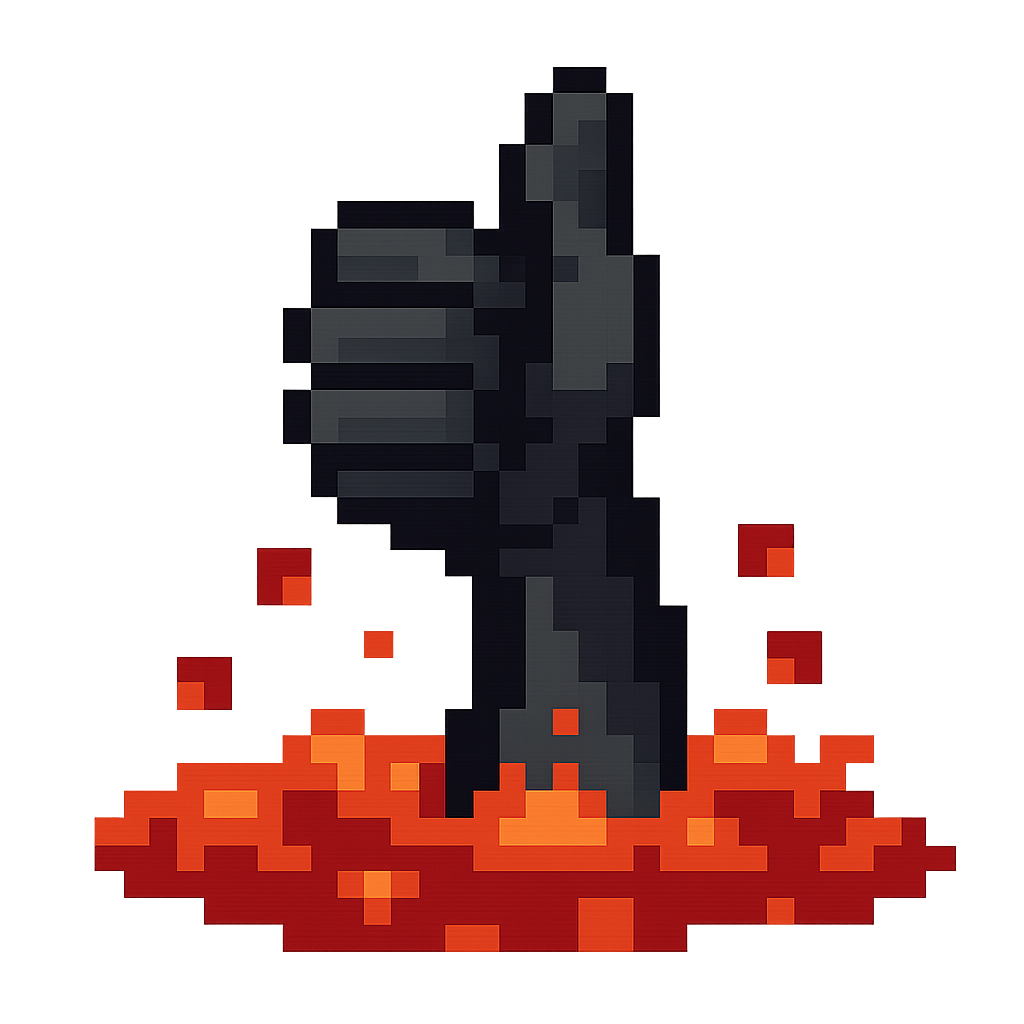
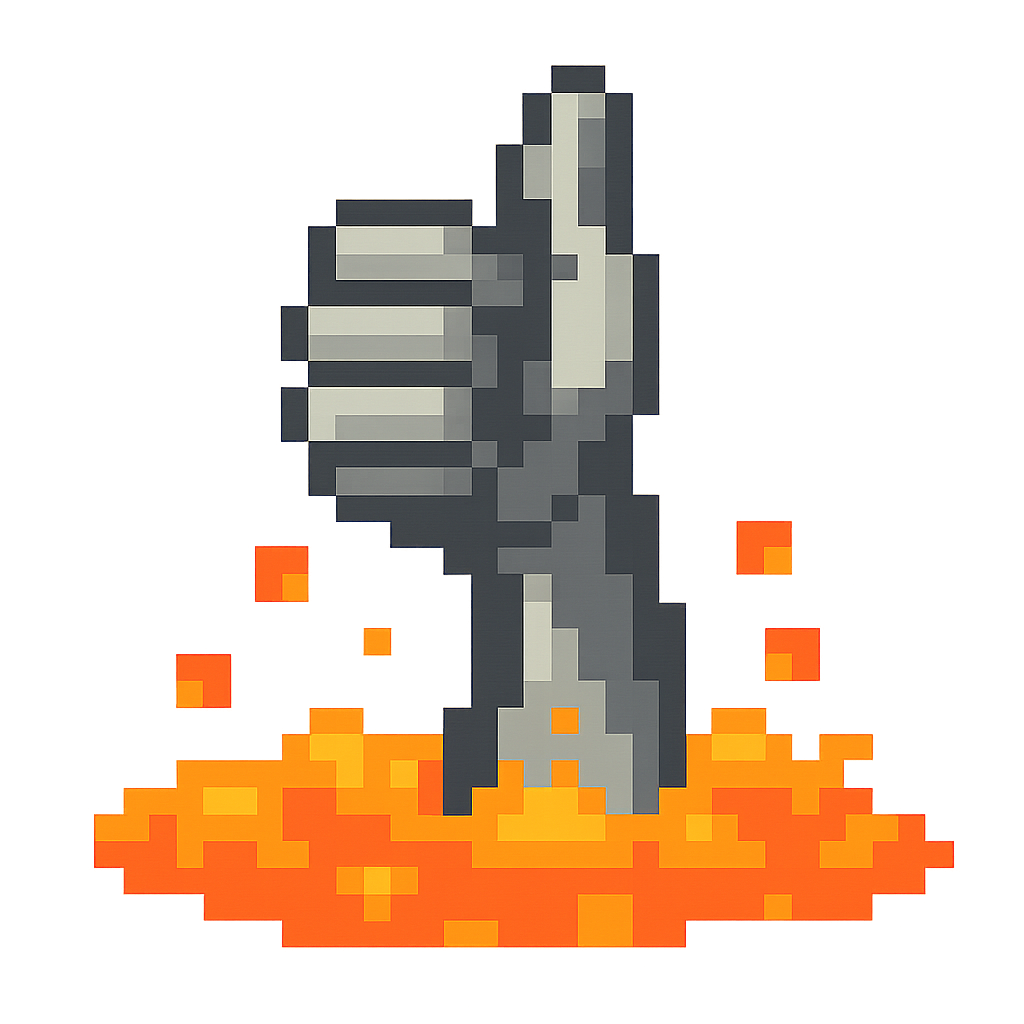
Add background images and update GameScene logic
Added four new background images to src/sprites/fondo and updated GameScene.js to load and display the background image, ensuring it follows the camera. Also made minor adjustments to lava point colors and improved comments for clarity.

diff --git a/src/scenes/GameScene.js b/src/scenes/GameScene.js
@@ -8,6 +8,7 @@ import { playLavaDeath } from '../effects/playLavaDeath'
 import UserInfo from '../user/UserInfo'
 import bgmUrl from '../audio/BackGroungSound.mp3'
 import soundPower from '../audio/Power.mp3'
+// arriba del archivo
 export default class GameScene extends Phaser.Scene {
   constructor() {
     super('game')
@@ -75,16 +76,21 @@ export default class GameScene extends Phaser.Scene {
   }
 
   preload() {
-
-      this.load.audio('bgm', bgmUrl)
-      this.load.audio('power', soundPower)
+    // Corrige la carga del fondo
+    this.load.image('bg', 'src/sprites/fondo/1.png')
+    this.load.audio('bgm', bgmUrl)
+    this.load.audio('power', soundPower)
 
     this.createTextures();
     this.load.image('terminator', 'src/effects/images/terminator.png');
   }
 
   create() {
-    this.music = this.sound.add('bgm', { loop: true, volume: 0.5 }) 
+    // Añade el fondo y guarda la referencia
+this.bgImage = this.add.image(0, 0, 'bg')
+  .setOrigin(0, 0)
+  .setDepth(-1)
+  .setDisplaySize(this.scale.width, this.scale.height);
 
     // Desbloquear y reproducir tras primer input
     const tryPlay = () => {
@@ -492,6 +498,11 @@ export default class GameScene extends Phaser.Scene {
         this.gameOver('fall')
       }
     }
+
+    // Mantén el fondo siguiendo la cámara
+    if (this.bgImage) {
+      this.bgImage.y = this.cameras.main.scrollY
+    }
   }
 
   // relocateDodger ahora vive en PlayerController
@@ -737,12 +748,21 @@ export default class GameScene extends Phaser.Scene {
       g.fillPath()
     }
     // Puntos amarillos más aleatorios
-    g.fillStyle(0xf59e0b, 1)
+
+    
+    g.fillStyle(0xf5290b, 1)
     for (let i = 0; i < 12; i++) {
       const px = Phaser.Math.Between(4, w - 4) + Phaser.Math.Between(-2, 2)
       const py = Phaser.Math.Between(4, h - 4) + Phaser.Math.Between(-2, 2)
       g.fillCircle(px, py, Phaser.Math.Between(2, 4))
     }
+
+
+
+
+
+
+
     g.generateTexture('lava', w, h)
 
     // Pulgar arriba (simple)
@@ -905,4 +925,3 @@ export default class GameScene extends Phaser.Scene {
     }
   }
 }
-
